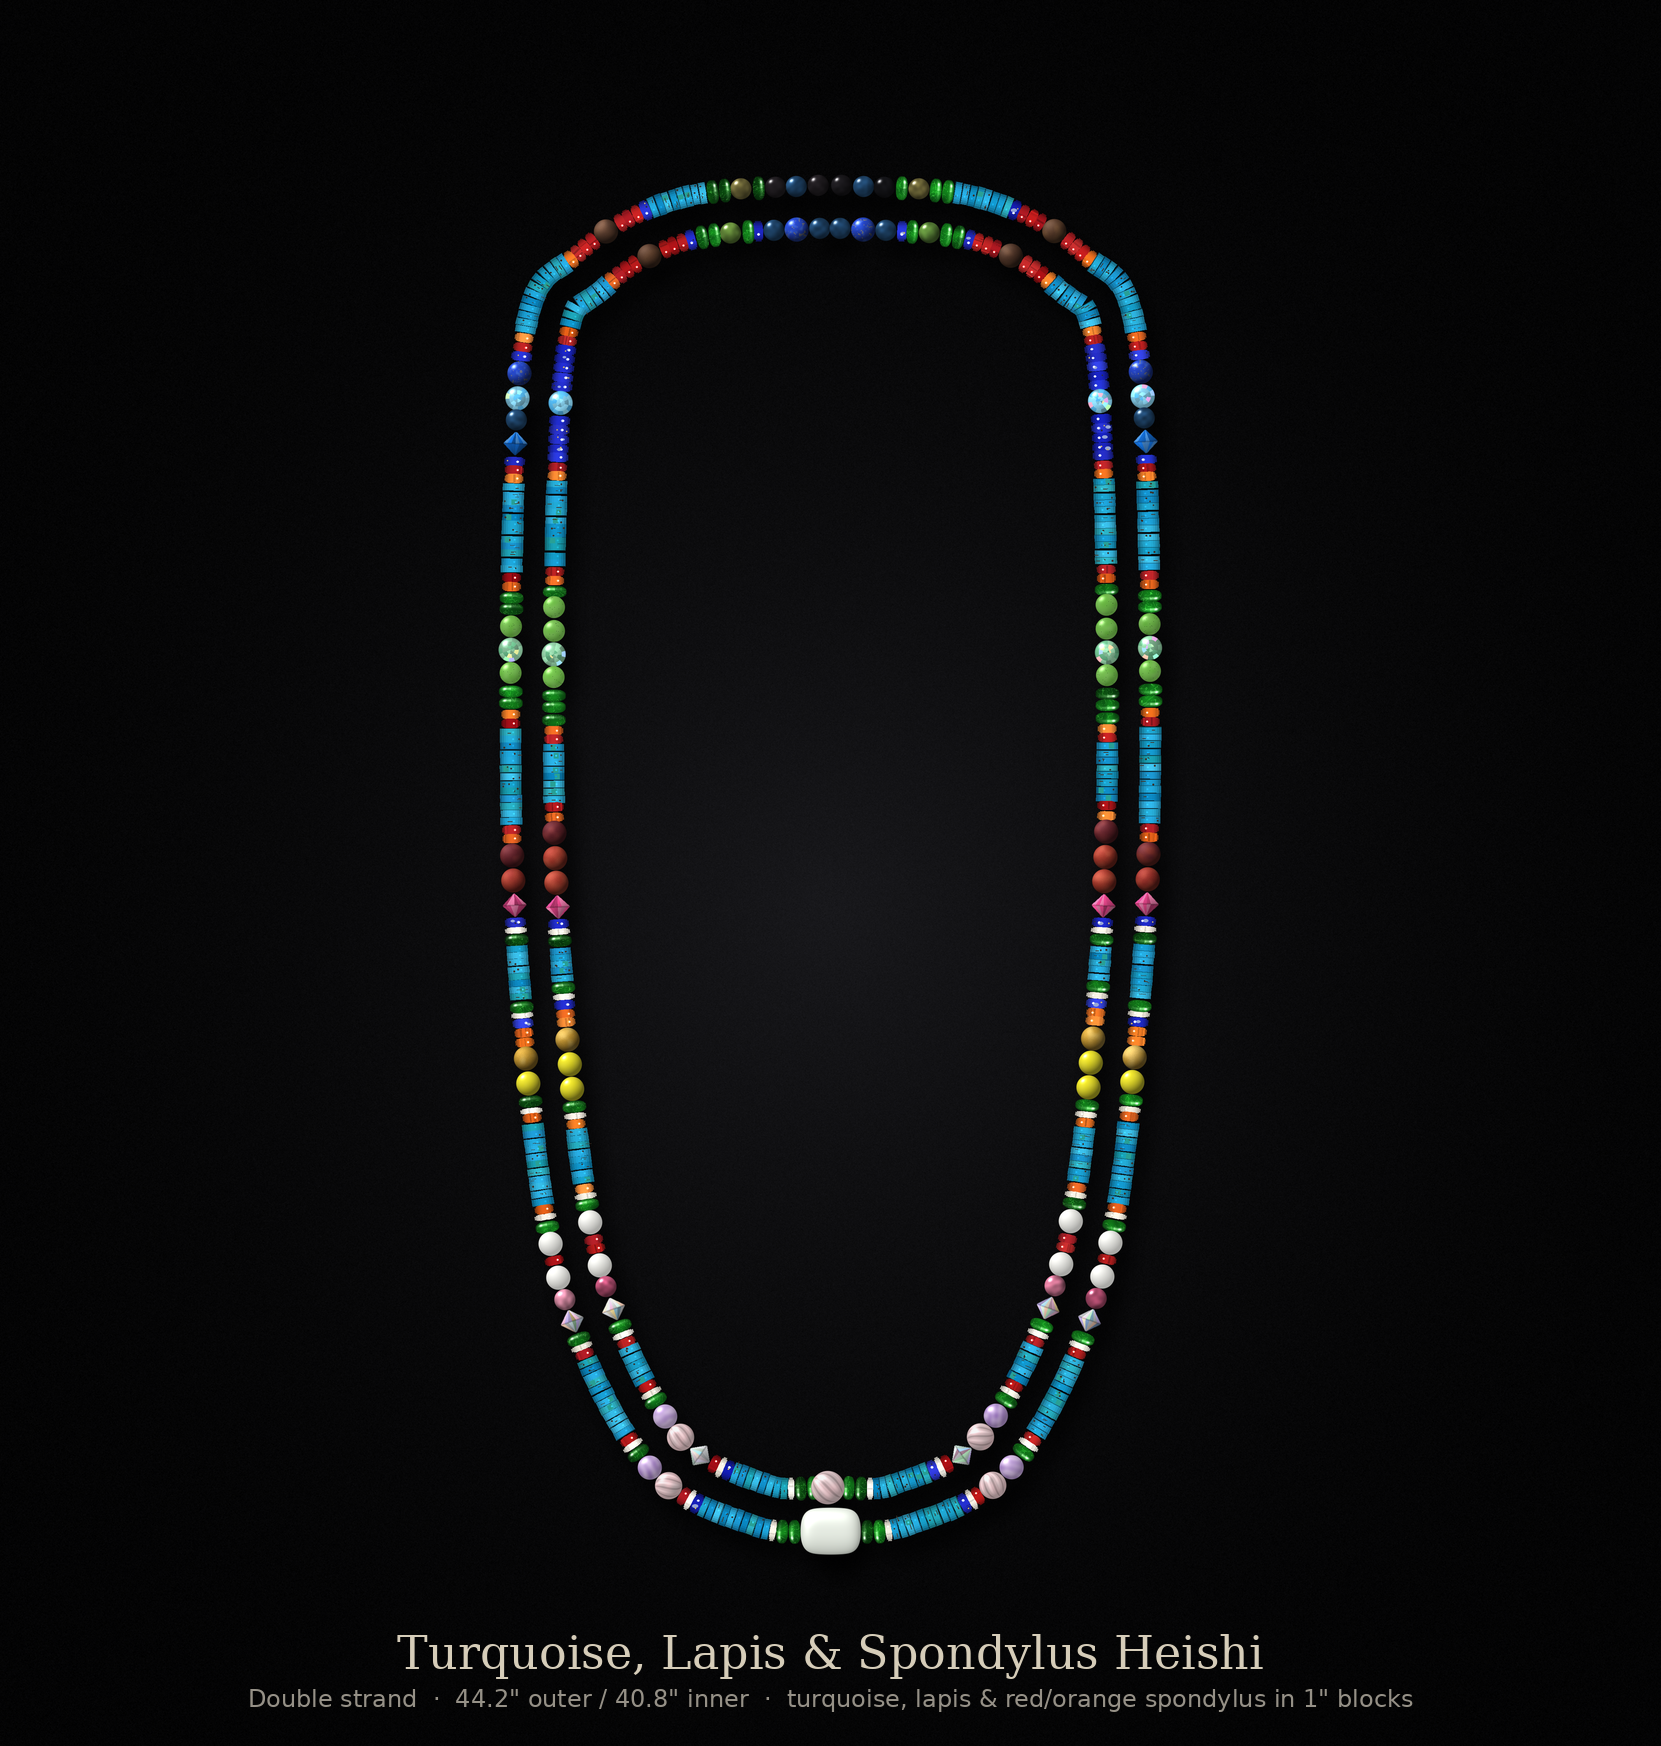
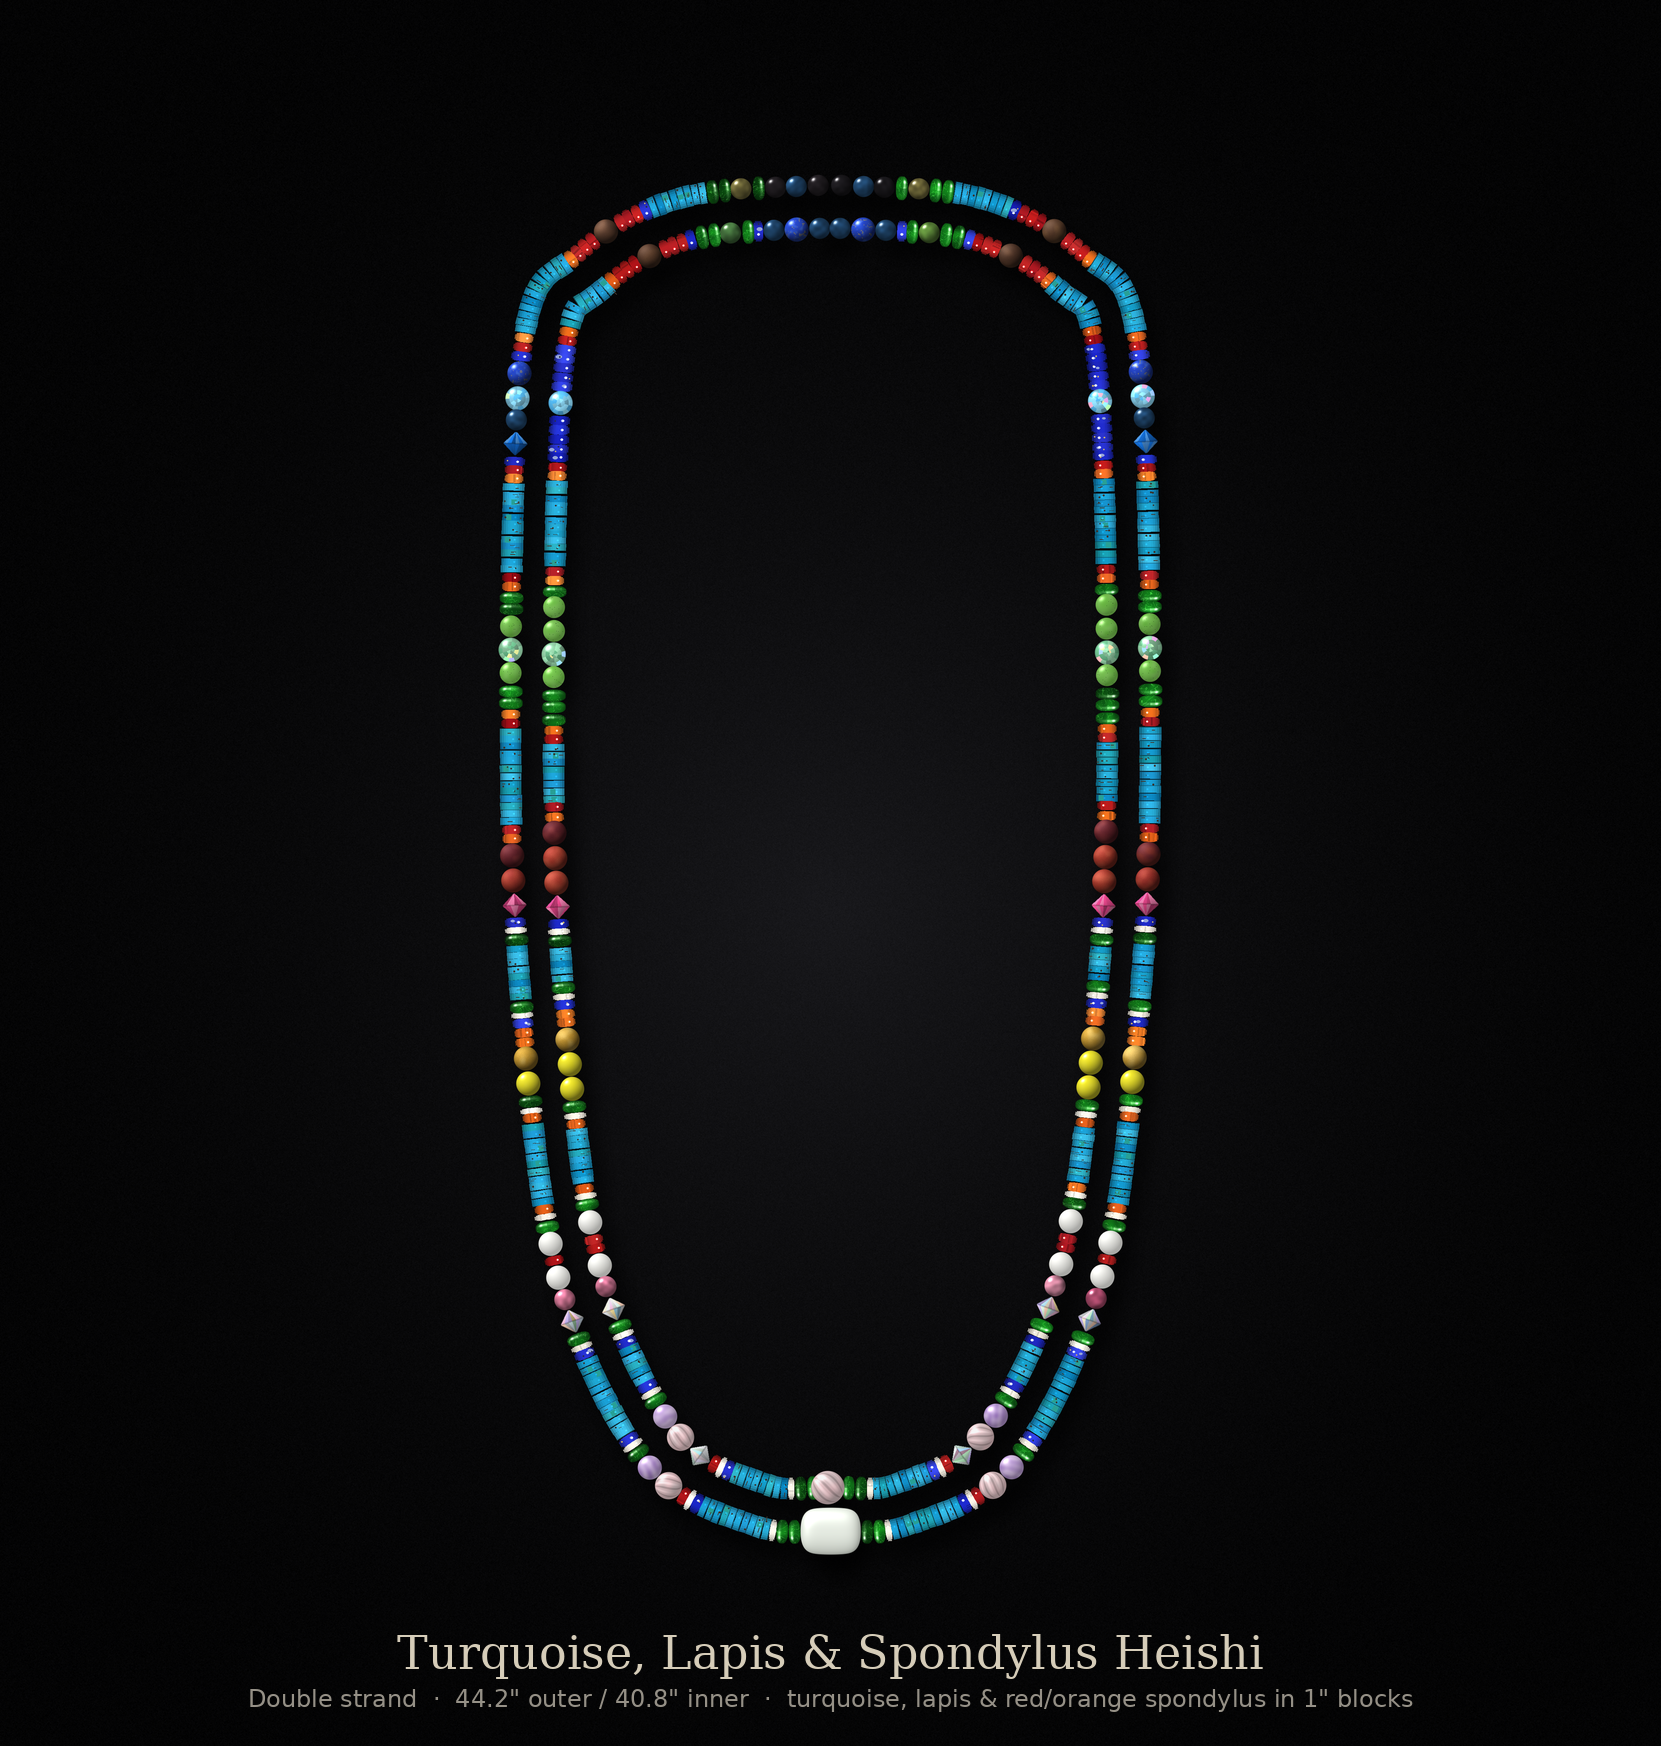
Version 5: lapis borders (instead of red) on the turquoise run between the white and rose quartz sections
Claude-Session: https://claude.ai/code/session_014be1vF4Rdf8sv9Si75Gudv

diff --git a/necklace/render_necklace.py b/necklace/render_necklace.py
@@ -1452,7 +1452,7 @@ if V4:
                 assert STN[8][-3:-1] == ["diop", "conch"]; STN[8][-3] = "lapisH"   # green next to that white -> blue lapis
                 STN[8][-3], STN[8][-1] = "red", "lapisH"       # red and blue swapped: lapis touches the turquoise
                 assert STN[7][-1] == "orange" and STN[8][0] == "orange"
-                STN[7][-1] = STN[8][0] = "red"                 # turquoise run between white and rose sections: red borders
+                STN[7][-1] = STN[8][0] = "lapisH"              # turquoise run between white and rose sections: lapis borders (were red, orange)
                 print(f"v5 strand {st} swapped 7/8 gaps", [round(float(x), 1) for x in gaps])
             g = 0.0
             lap = LAP_BUDGET[st]
